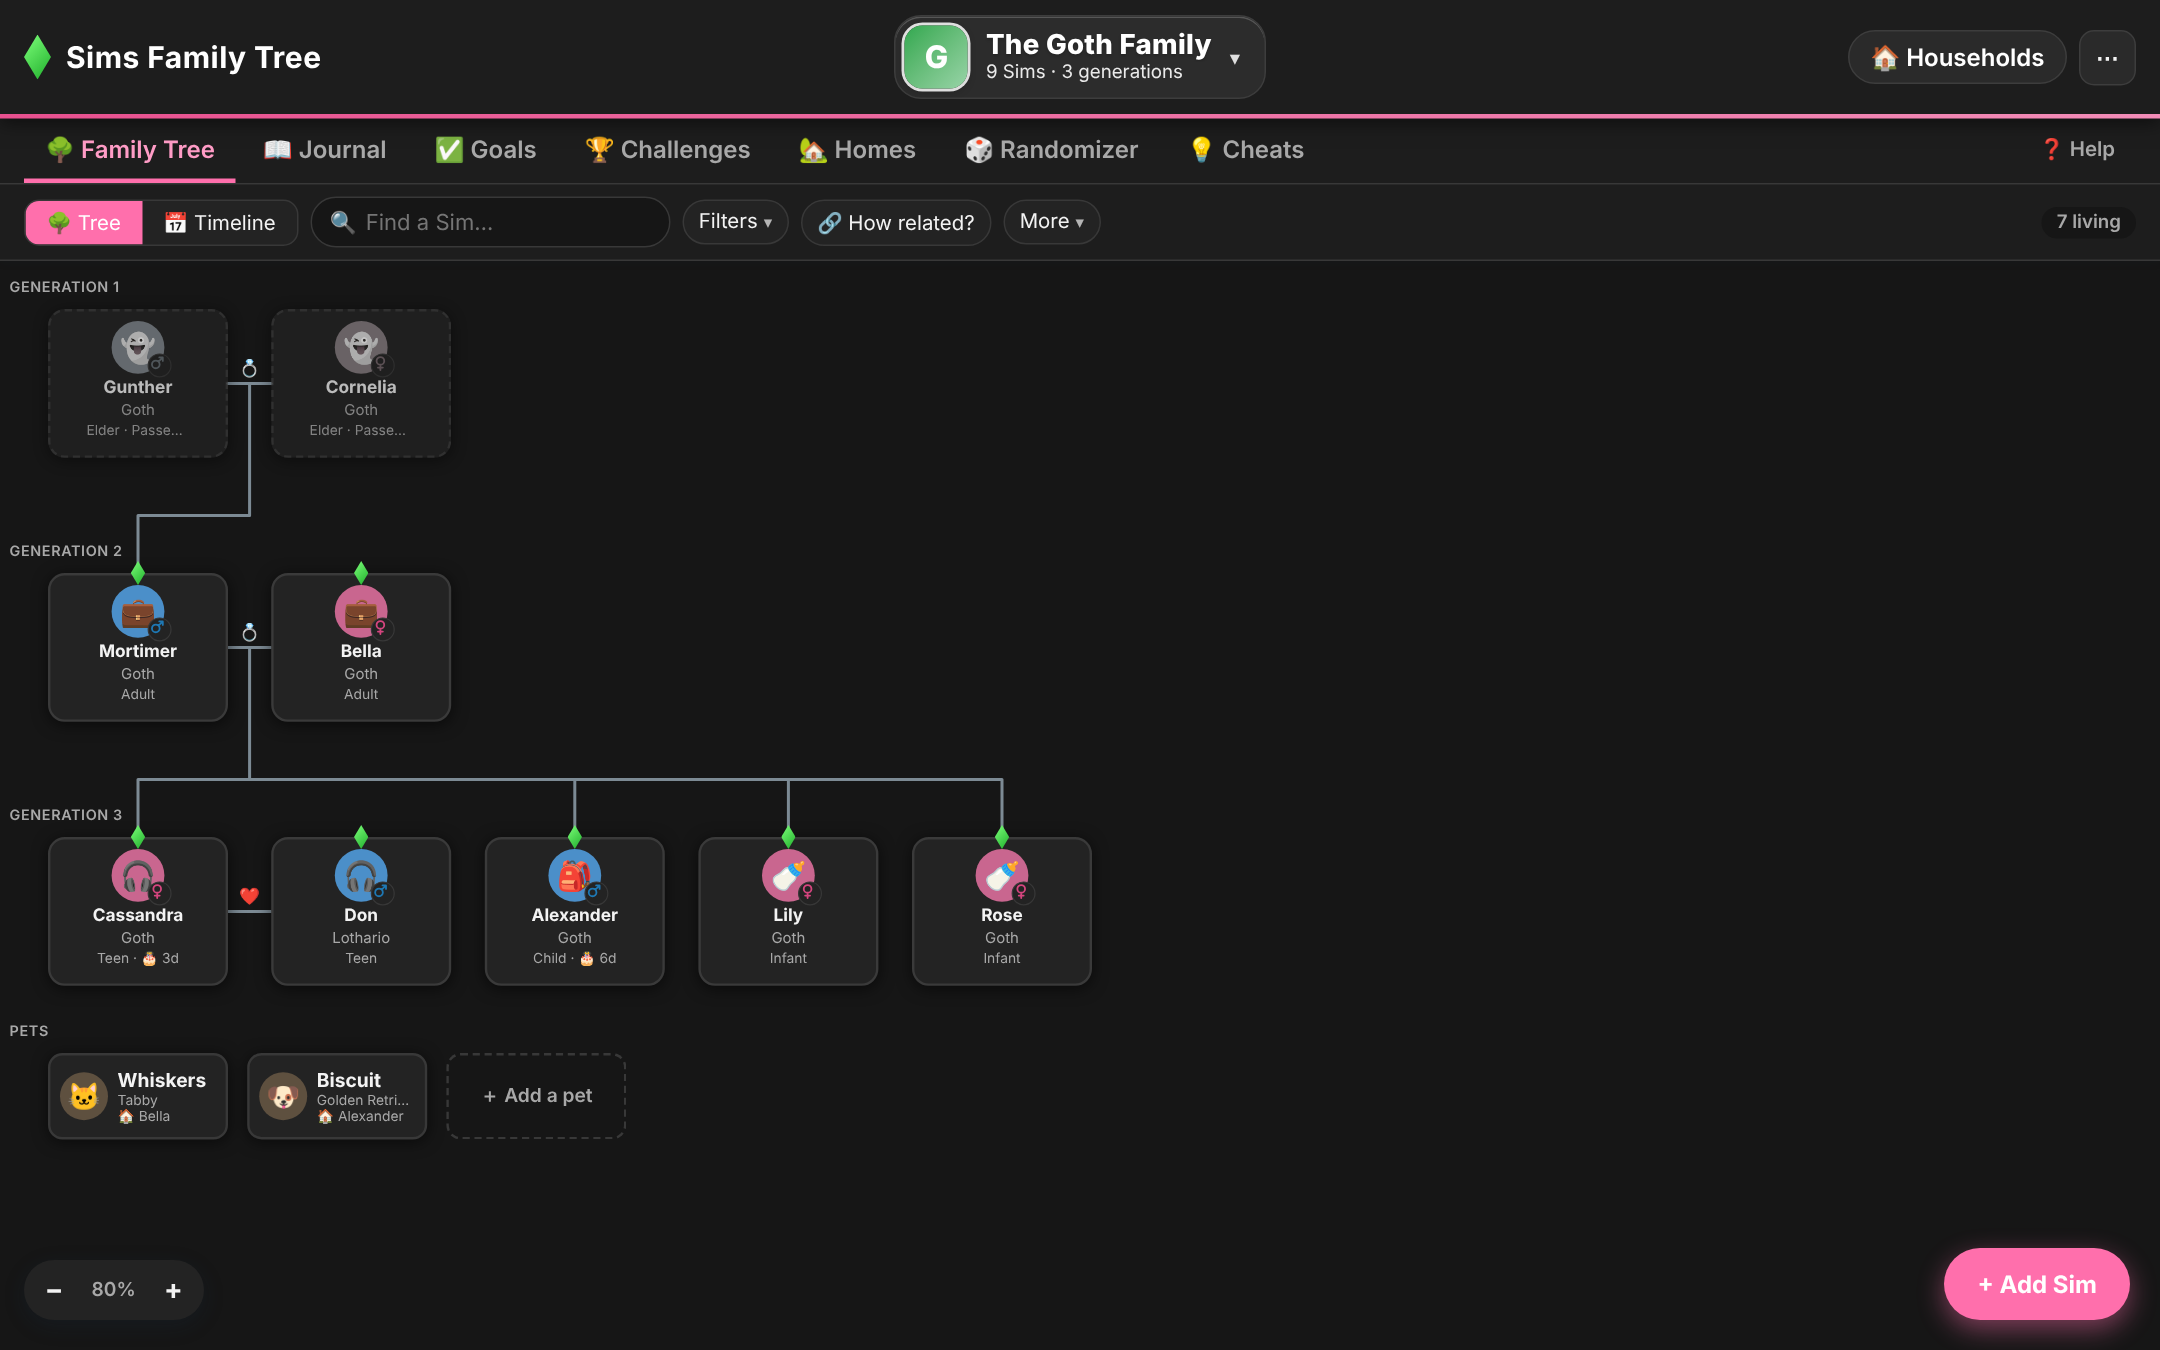
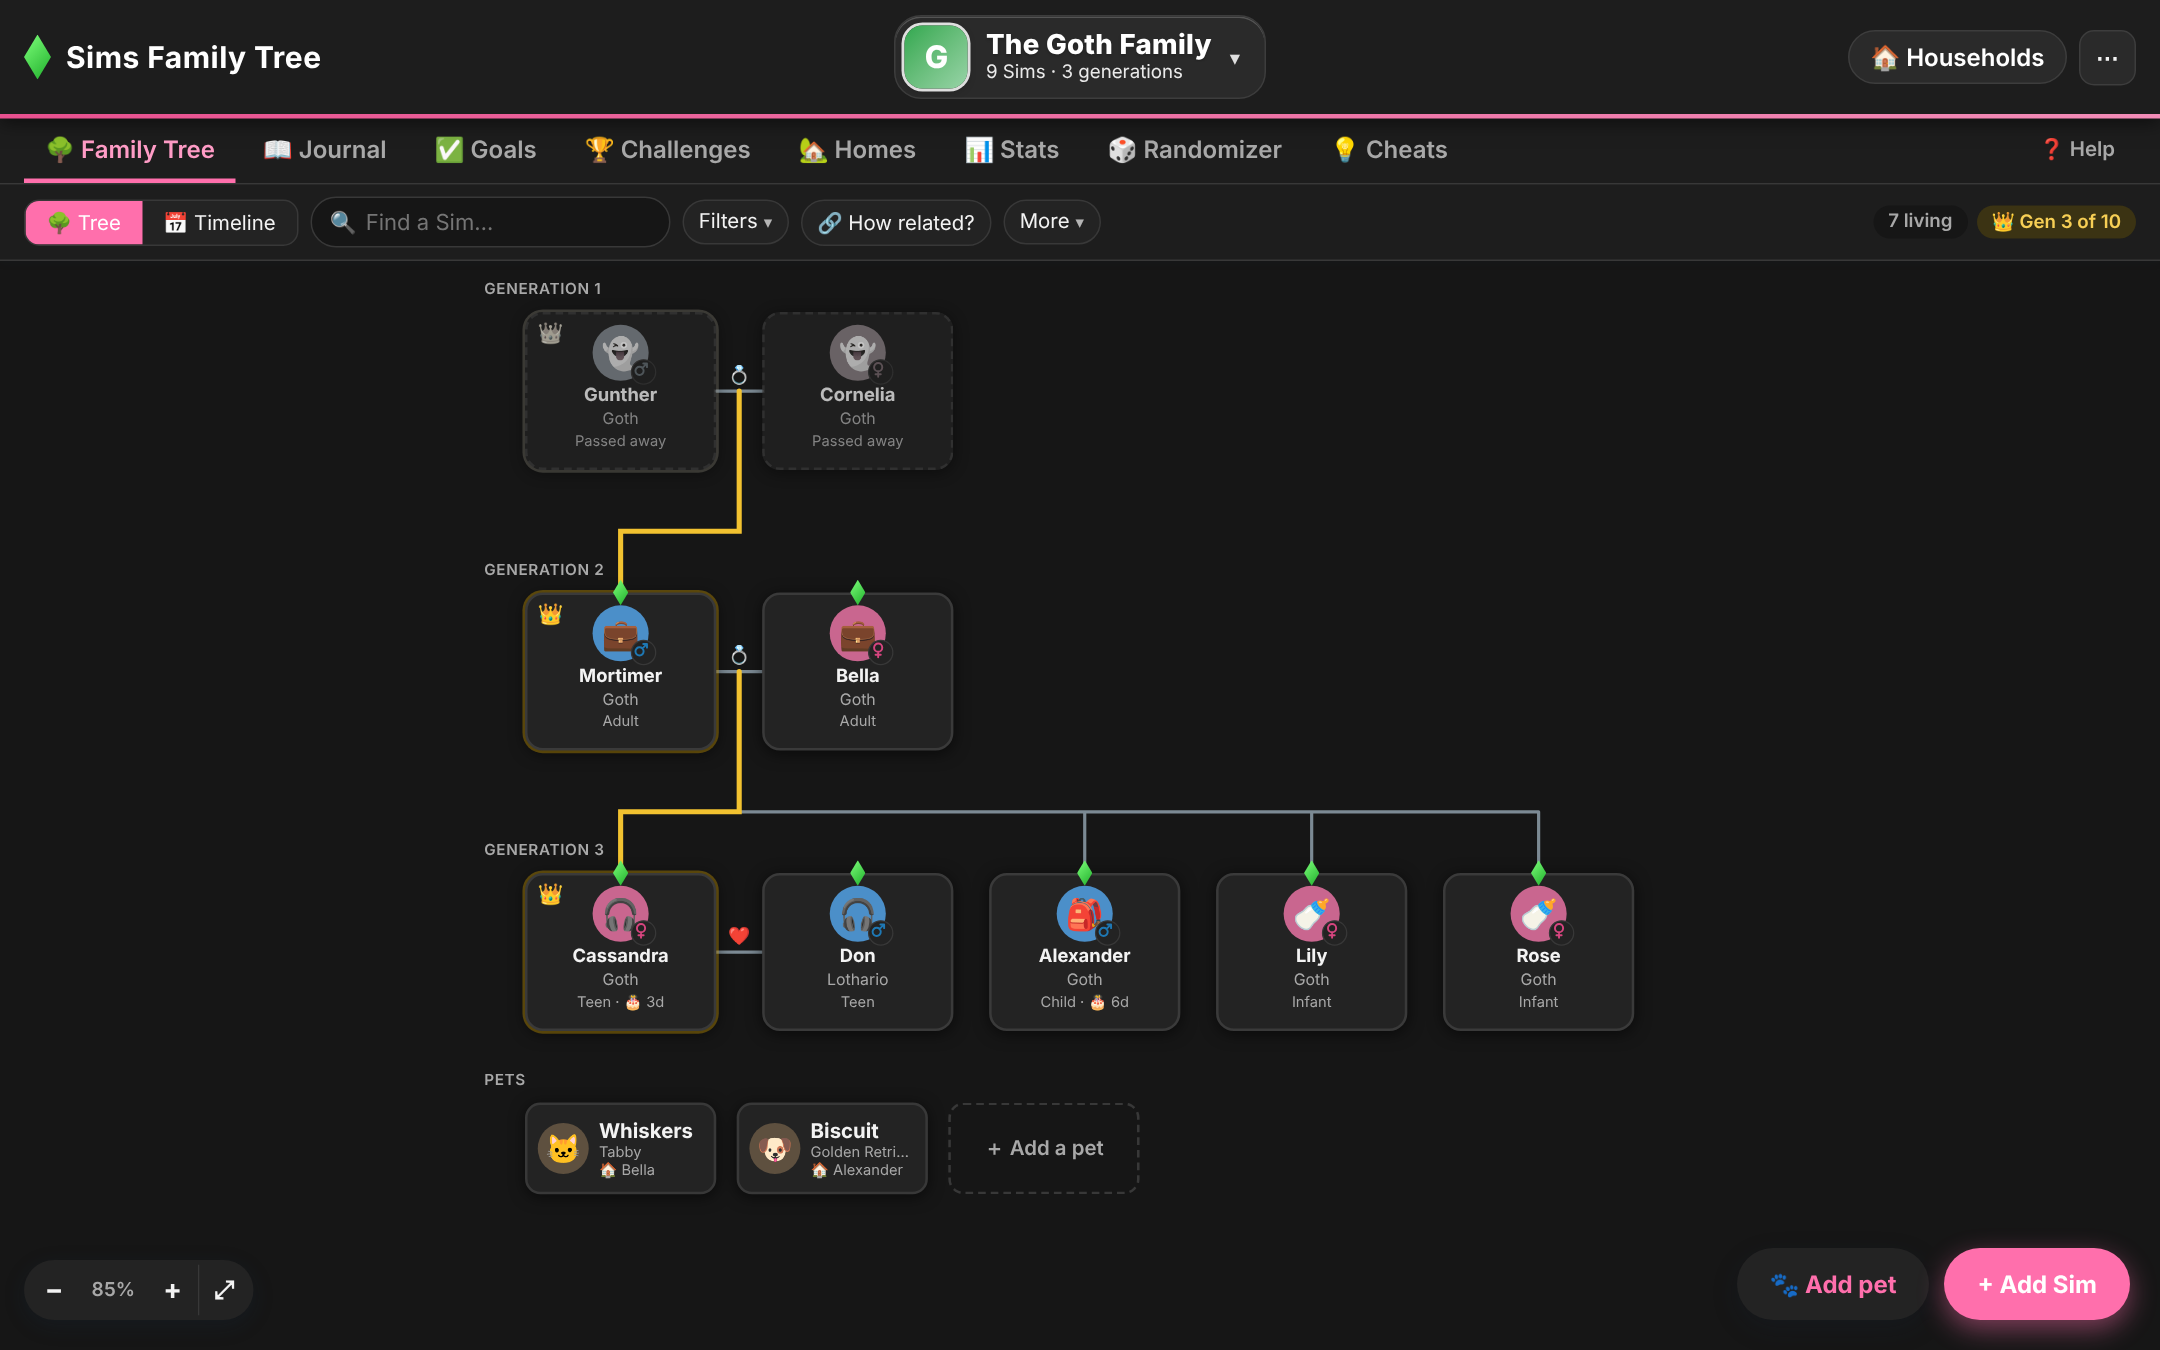
Refresh the download page for 1.12
New screenshots (the family tree, the four tree styles, Stats, the quick
tour and setup) and text for tree styles, Focus/Fit, Undo, Stats, the
inspiration board, poster printing, the tour, and quieter updates.

Claude-Session: https://claude.ai/code/session_012hv3NjQTnVTaQDHxcGsWn2

diff --git a/README.md b/README.md
@@ -4,7 +4,7 @@
 
 **Plan, track and remember your Sims 4 families — all in one cosy little app for Windows.**
 
-Family trees · Legacy challenges · Pets · Birthdays · Journal · Goals · Cheats
+Family trees · Tree styles · Legacy challenges · Pets · Birthdays · Journal · Stats · Cheats
 
 <a href="https://github.com/Sagmire/sims-family-tree-releases/releases/latest"><img alt="Download for Windows" src="https://img.shields.io/badge/Download-Windows%2010%20%26%2011-2fa84f?style=for-the-badge&logo=windows&logoColor=white"></a>
 &nbsp;
@@ -32,6 +32,7 @@ Add Sims and link them up — the tree lays itself out by generation, with partn
 - 🐾 Cats, dogs, horses and small pets
 - 🫳 Drag one Sim onto another to link them
 - 🔗 *How related?* — "second cousin once removed" and all
+- 🎯 Focus on one Sim's family line, or ⤢ fit the whole tree on screen
 
 </td>
 <td width="50%" valign="top">
@@ -45,6 +46,17 @@ Point it at your Sims 4 save and tick the households — names, parents, partner
 - 👶 One-click baby, 🎂 age up and 🪦 passed-away buttons
 - 💭 Plan future Sims before they're born
 - 📦 Only shows things from the packs **you** own
+- ↩ Deleted a Sim by mistake? Click **Undo**
+
+</td>
+</tr>
+<tr>
+<td colspan="2" valign="top">
+
+### 🌳 Pick the look of your tree
+**Classic** cards, **Compact** circles that fit a big legacy on screen, an old-fashioned **Storybook** page, or big round **Bubbles** for Sims with pictures. Saved pictures and prints match the look you pick.
+
+<img src="screenshots/tree-styles.png" alt="The same family tree in the Classic, Compact, Storybook and Bubbles styles" width="860">
 
 </td>
 </tr>
@@ -58,7 +70,7 @@ Legacy laws and heirs with a golden heir line, plus Legacy, 100 Baby, Rags to Ri
 <td valign="top">
 
 ### 📅 Your family's story
-A timeline of births, birthdays, weddings and deaths, today's in-game day with upcoming birthdays, a journal with screenshots, and goals for each Sim.
+A timeline of births, birthdays, weddings and deaths, today's in-game day with upcoming birthdays, a journal with screenshots, goals for each Sim, and a **Stats** page with your families in numbers.
 
 </td>
 </tr>
@@ -66,13 +78,13 @@ A timeline of births, birthdays, weddings and deaths, today's in-game day with u
 <td valign="top">
 
 ### 🏡 Households & homes
-Every household as a card with its family picture, plus the world, lot and pictures of each home. Sims can move out and stay in sync on both trees.
+Every household as a card with its family picture, plus the world, lot and pictures of each home, and a board of building inspiration photos sorted by room. Sims can move out and stay in sync on both trees.
 
 </td>
 <td valign="top">
 
 ### 💡 Extras
-A cheat sheet by category with copy buttons, a random Sim generator, 10 colour themes, dark mode, printing, and save-as-picture.
+A cheat sheet by category with copy buttons, a random Sim generator, 10 colour themes, dark mode, save-as-picture, and printing on one page or as a big poster to tape together.
 
 </td>
 </tr>
@@ -90,8 +102,8 @@ A cheat sheet by category with copy buttons, a random Sim generator, 10 colour t
 <td><img src="screenshots/dark-mode.png" alt="Dark mode with the Pink Blossom theme"><br><sub><b>Dark mode</b> + 10 colour themes (here: Pink Blossom)</sub></td>
 </tr>
 <tr>
-<td><img src="screenshots/cheats.png" alt="Cheats tab"><br><sub><b>Cheats</b> by category, with copy buttons and favourites</sub></td>
-<td><img src="screenshots/setup.png" alt="First-run setup asking which packs you own"><br><sub><b>Quick setup</b>: your packs, backups and look</sub></td>
+<td><img src="screenshots/stats.png" alt="Stats page with traits, life stages and generations"><br><sub><b>Stats</b>: your families in numbers</sub></td>
+<td><img src="screenshots/tour.png" alt="The quick tour pointing at the Add Sim button"><br><sub><b>Quick tour</b> for new players (with a Skip button)</sub></td>
 </tr>
 </table>
 
@@ -110,17 +122,20 @@ Double-click the file you downloaded and follow the steps.
 > Click **More info → Run anyway**. You only need to do this once.
 
 ### 3. Quick setup (about a minute)
-The first time it opens, the app asks four quick things — you can change all of them later from the **⋯** menu:
+The first time it opens, the app asks a few quick things — you can change all of them later from the **⋯** menu:
 
 | Step | What it asks | Tip |
 |:---:|---|---|
 | 📦 | **Which packs you own** | Tap **Select all** if you have everything. Things from packs you don't own are hidden. |
 | 💾 | **How to back up** | **Automatic** is easiest — your families are saved in the background. |
-| 🎨 | **Pick a look** | Light, dark or match your computer, plus a colour theme. |
+| 🎨 | **Pick a look** | Light, dark or match your computer, a colour theme, and the tree style. |
 | 🎮 | **Bring in your families?** | Choose **Import from my game** to pick your save and households — or start fresh. |
+| 🧭 | **Take a quick tour?** | A few short tips that show where everything is. Skip it if you like — it's in **❓ Help** any time. |
+
+<img src="screenshots/setup.png" alt="Setup step 3: light or dark, colour theme and tree style" width="640">
 
 ### 4. Start your first family
-**Already playing?** Import your households from the game (setup step 4, or **⋯ → 🎮 Import from The Sims 4** any time). Your newest save is at the top of the list.
+**Already playing?** Import your households from the game (in setup, or **⋯ → 🎮 Import from The Sims 4** any time). Your newest save is at the top of the list.
 
 **Starting fresh?** Click **+ Create a household**, give it a name, then **+ Add Sim**. Only a first name is needed — fill in the rest whenever you like.
 
@@ -134,7 +149,7 @@ The first time it opens, the app asks four quick things — you can change all o
 The app checks for new versions by itself. When one is ready you'll see a banner at the top:
 
 1. Click **Download** (or **Later** if you're mid-game).
-2. When it's done, click **Restart & update**.
+2. When it's done, click **Restart & update**. An "Updating…" screen shows while your families are backed up, then the app closes, updates and opens again by itself — with a list of what's new.
 
 Your families are **backed up automatically before every update**, and nothing downloads or installs unless you click. To check straight away: **⋯ → 🔄 Check for updates**.
 
@@ -146,7 +161,7 @@ Your families are **backed up automatically before every update**, and nothing d
 
 ## ❓ Need help?
 
-Click **❓ Help** in the app — it explains every icon, line and button, with a search box and step-by-step "How do I…" answers.
+Click **❓ Help** in the app — it explains every icon, line and button, with a search box and step-by-step "How do I…" answers. **🧭 Take the tour** at the top shows you around again.
 
 <div align="center">
 <br>
